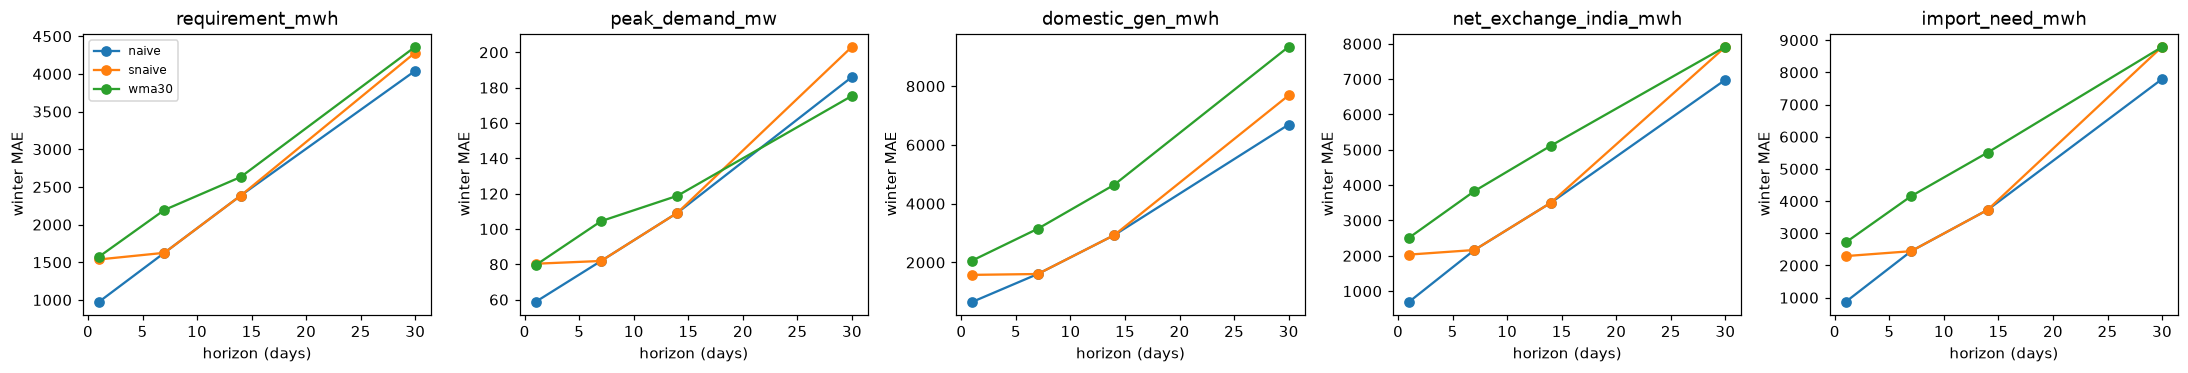
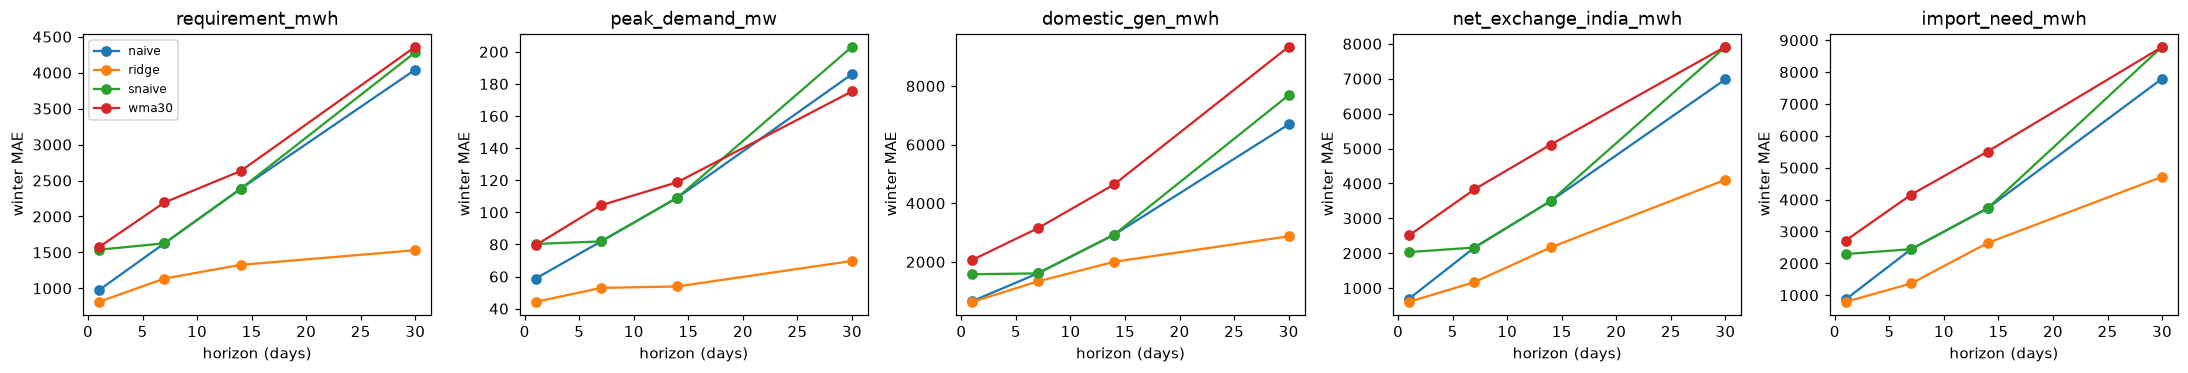
feat(model): ridge daily model and DM test

diff --git a/src/nea_forecast/model.py b/src/nea_forecast/model.py
@@ -110,6 +110,52 @@ def _baseline(key):
 
 
 BASELINES = {"naive": _baseline("y_t"), "snaive": _baseline("y_snaive"), "wma30": _baseline("y_wma30")}
+RIDGE_FEATS = ["y_t", "y_mean7", "y_snaive", *[f"dow_{i}" for i in range(1, 7)], "holiday", "hdd", "cdd",
+               "tmean_terai", "temp_anom_t", "temp_anom_7", "q_clim", "q_anom_t", "q_anom_7", "trend"]
+LAMBDAS = (0.1, 1.0, 10.0, 100.0)
+
+
+def fit_ridge(X: np.ndarray, y: np.ndarray, lam: float) -> tuple:
+    """Closed-form ridge on standardised X: lstsq on [X; sqrt(lam) I] -> [y; 0]."""
+    mu, sd = X.mean(0), X.std(0)
+    sd[sd == 0] = 1.0
+    A = np.vstack([(X - mu) / sd, math.sqrt(lam) * np.eye(X.shape[1])])
+    b = np.concatenate([y - y.mean(), np.zeros(X.shape[1])])
+    return mu, sd, np.linalg.lstsq(A, b, rcond=None)[0], y.mean()
+
+
+def predict_ridge(fit: tuple, X: np.ndarray) -> np.ndarray:
+    mu, sd, coef, y0 = fit
+    return (X - mu) / sd @ coef + y0
+
+
+def _xy(rows, feats):
+    return np.array([[x[k] for k in feats] for x, _ in rows]), np.array([yv - x["y_t"] for x, yv in rows])
+
+
+def ridge(train: list, test: list, feats: list[str] = RIDGE_FEATS) -> list[float]:
+    """Target = change from today (y_{t+h} - y_t): shrinkage pulls toward the naive forecast, the strong
+    baseline, not toward zero. Lambda picked on the last 60 training rows (time order), then refit on all."""
+    X, y = _xy(train, feats)
+    lam = 1.0
+    if len(train) >= 180:
+        v = 60
+        lam = min(LAMBDAS, key=lambda L: np.abs(predict_ridge(fit_ridge(X[:-v], y[:-v], L), X[-v:]) - y[-v:]).mean())
+    Xt = np.array([[x[k] for k in feats] for x in test])
+    return list(predict_ridge(fit_ridge(X, y, lam), Xt) + Xt[:, feats.index("y_t")])
+
+
+def dm_test(e1: list[float], e2: list[float], h: int) -> float:
+    """Diebold-Mariano, absolute-error loss, Newey-West variance with h-1 lags; two-sided normal p-value."""
+    d = np.abs(np.array(e1)) - np.abs(np.array(e2))
+    n = len(d)
+    if n < 3 or not d.any():
+        return 1.0
+    dc = d - d.mean()
+    var = (dc @ dc + 2 * sum((1 - k / h) * (dc[k:] @ dc[:-k]) for k in range(1, h))) / n / n
+    if var <= 0:
+        var = (dc @ dc) / n / n
+    return math.erfc(abs(d.mean() / math.sqrt(var)) / math.sqrt(2))
 
 
 # ---------- backtest ----------
@@ -155,8 +201,57 @@ def metrics(errors: dict, weather: str) -> list[dict]:
             mape = (100 * sum(abs(y - p) / abs(y) for _, _, y, p in sel if y) / len(sel)
                     if target in PCT_TARGETS else None)
             rows.append({"model": name, "target": target, "horizon": h, "season": season, "weather": weather,
-                         "mae": sum(abs(y - p) for _, _, y, p in sel) / len(sel), "mape": mape, "n": len(sel)})
+                         "mae": sum(abs(y - p) for _, _, y, p in sel) / len(sel), "mape": mape, "n": len(sel),
+                         "dm_p": None})
     return rows
+
+
+LADDER = ["ridge"]  # complexity order above the baselines; each is tested against the one below
+
+
+def attach_dm(rows: list[dict], errors: dict) -> None:
+    """dm_p on each ladder model's rows: Diebold-Mariano vs the next simpler model (the best baseline by
+    winter MAE for the first rung), paired by origin, per season."""
+    by = {(r["model"], r["target"], r["horizon"], r["season"]): r for r in rows}
+    for t, h in {(r["target"], r["horizon"]) for r in rows}:
+        prev = min((m for m in BASELINES if (m, t, h, "winter") in by), key=lambda m: by[(m, t, h, "winter")]["mae"])
+        for m in LADDER:
+            if (m, t, h) not in errors:
+                continue
+            for season in ("all", "winter"):
+                err = lambda k: {e[0]: e[2] - e[3] for e in errors[(k, t, h)]  # noqa: E731
+                                 if season == "all" or e[1].month in WINTER}
+                a, b = err(prev), err(m)
+                common = sorted(a.keys() & b.keys())
+                if (m, t, h, season) in by:
+                    by[(m, t, h, season)]["dm_p"] = dm_test([b[o] for o in common], [a[o] for o in common], h)
+                    by[(m, t, h, season)]["dm_vs"] = prev
+            prev = m
+
+
+MODELS = {"ridge": ridge}
+
+
+def sensitivity(c: dict) -> str:
+    """Ridge winter MAPE for demand under HDD/CDD thresholds +-3 degC: the fixed choice must not be tuned."""
+    lines = ["  hdd_base cdd_base | " + " | ".join(f"req h={h}" for h in HORIZONS)]
+    for hb, cb in ((12, 24), (15, 24), (18, 24), (15, 21), (15, 27)):
+        rows, _ = backtest({**c, "hdd_base": hb, "cdd_base": cb}, {"ridge": ridge}, ["requirement_mwh"], HORIZONS, "clim")
+        w = {r["horizon"]: r["mape"] for r in rows if r["season"] == "winter"}
+        lines.append(f"  {hb:8} {cb:8} | " + " | ".join(f"{w[h]:8.2f}%" for h in HORIZONS))
+    return "\n".join(lines)
+
+
+def stability(c: dict) -> str:
+    """Standardised ridge coefficients (h=1 demand) fitted on 2023 vs 2024 origins: same sign = stable."""
+    rows = _rows(c, "requirement_mwh", 1, "clim")
+    fits = {yr: fit_ridge(*_xy([(x, yv) for o, x, yv in rows if o.year == yr], RIDGE_FEATS), 1.0)[2]
+            for yr in (2023, 2024)}
+    lines = [f"  {'feature':12} {'2023':>8} {'2024':>8}  same sign"]
+    for i, k in enumerate(RIDGE_FEATS):
+        a, b = fits[2023][i], fits[2024][i]
+        lines.append(f"  {k:12} {a:8.0f} {b:8.0f}  {'yes' if a * b > 0 or abs(a) + abs(b) < 50 else 'NO'}")
+    return "\n".join(lines)
 
 
 def _save(fig, name: str) -> str:
@@ -198,15 +293,24 @@ def run_backtest(con) -> dict:
     print("▶ load: start", flush=True)
     c = load(con)
     print(f"✔ load: {len(c['frame'])} days, weather {len(c['wx'])} days in {time.time() - t:.1f}s", flush=True)
-    models, all_rows = dict(BASELINES), []
+    models, all_rows = {**BASELINES, **{m: MODELS[m] for m in LADDER}}, []
     for weather in ("clim", "actual"):
         t = time.time()
-        print(f"▶ backtest ({weather}): {len(models)} models x {len(TARGETS)} targets x {len(HORIZONS)} horizons", flush=True)
-        rows, _ = backtest(c, models, TARGETS, HORIZONS, weather)
+        print(f"▶ backtest ({weather}): {list(models)} x {len(TARGETS)} targets x {len(HORIZONS)} horizons", flush=True)
+        rows, errors = backtest(c, models, TARGETS, HORIZONS, weather)
+        attach_dm(rows, errors)
         all_rows += rows
         print(f"✔ backtest ({weather}) in {time.time() - t:.0f}s; winter MAE (MAPE):\n{_table(rows)}", flush=True)
-    upsert(con, "ml.backtest_metrics", [{"run_id": run_id, "coverage": None, "pinball": None, "dm_p": None,
-                                         "created_at": now, **r} for r in all_rows],
+        print("  Diebold-Mariano (winter), ladder model vs next simpler:\n" + "\n".join(
+            f"  {r['target']:24} h={r['horizon']:<2} {r['model']} vs {r['dm_vs']}: p={r['dm_p']:.3f}"
+            for r in sorted(rows, key=lambda r: (r["target"], r["horizon"]))
+            if r["season"] == "winter" and r.get("dm_vs")), flush=True)
+    for fn in (sensitivity, stability):
+        t = time.time()
+        print(f"▶ {fn.__name__}: start", flush=True)
+        print(f"✔ {fn.__name__} in {time.time() - t:.0f}s:\n{fn(c)}", flush=True)
+    upsert(con, "ml.backtest_metrics", [{"run_id": run_id, "coverage": None, "pinball": None, "created_at": now,
+                                         **{k: v for k, v in r.items() if k != "dm_vs"}} for r in all_rows],
            ("run_id", "model", "target", "horizon", "season", "weather"))
     print(f"✔ saved {len(all_rows)} metric rows as {run_id}; chart {chart_daily(all_rows)}", flush=True)
     return {"run_id": run_id, "rows": all_rows}

diff --git a/tests/test_model.py b/tests/test_model.py
@@ -57,3 +57,19 @@ def test_backtest_weekly_series_snaive_mae_zero():
     metrics, errors = model.backtest(c, {"snaive": model.BASELINES["snaive"]}, [T], [1, 7], "clim", date(2024, 3, 1))
     assert {(m["horizon"], m["season"]): m["mae"] for m in metrics if m["model"] == "snaive"}[(7, "all")] == 0
     assert all(m["mape"] is not None for m in metrics)
+
+
+def test_fit_ridge_recovers_coefficients():
+    import numpy as np
+    rng = np.random.default_rng(0)
+    X = rng.normal(size=(200, 2))
+    y = 3 * X[:, 0] - 2 * X[:, 1] + 5
+    fit = model.fit_ridge(X, y, 1e-6)
+    assert model.predict_ridge(fit, np.array([[1.0, 1.0], [0.0, 0.0]])) == pytest.approx([6.0, 5.0], rel=0.01)
+
+
+def test_dm_test():
+    import numpy as np
+    e = list(np.random.default_rng(1).normal(size=200))
+    assert model.dm_test(e, e, 1) == 1.0
+    assert model.dm_test(e, [2 * x for x in e], 7) < 0.01

diff --git a/docs/models/ridge.md b/docs/models/ridge.md
@@ -4,9 +4,11 @@
 
 ## How it works
 
-One model per horizon $h$ (a "direct" forecast). Each is trained on rows $(x(t,h),\, y_{t+h})$ by minimising
+One model per horizon $h$ (a "direct" forecast). The target is the **change from today**, $\Delta = y_{t+h} - y_t$, and the forecast is $\hat y_{t+h} = y_t + \hat\Delta$. Each model minimises
 
-$$\sum_t \big(y_{t+h} - \beta_0 - \beta^\top x(t,h)\big)^2 + \lambda \lVert\beta\rVert^2$$
+$$\sum_t \big(\Delta_t - \beta_0 - \beta^\top x(t,h)\big)^2 + \lambda \lVert\beta\rVert^2$$
+
+Why the change and not the level: ridge shrinks $\beta$ toward 0, which then means "tomorrow = today", the strongest baseline. With a level target, it would shrink toward the mean instead.
 
 with standardised features. $\lambda \in \{0.1, 1, 10, 100\}$ is picked on the last 60 days of each training window (time-ordered, never random). It is solved in closed form with numpy (`lstsq` on the augmented system), so there's no iterative training and the same data always gives the same model.
 
@@ -46,4 +48,36 @@ HDD/CDD thresholds (15 °C, 24 °C) are fixed up front. Task 2 reports a ±3 °C
 
 ## Results
 
-_Filled by `nea model` (Phase 3, Task 2): winter and overall MAE/MAPE per horizon, ex-ante vs ex-post, coefficient table, stability check._
+Run `bt-20261026-082239`. Winter origins Nov 2024 → Jan 2025. MAE (MAPE); DM p = Diebold–Mariano vs the best baseline.
+
+| Target | h=1 | h=7 | h=14 | h=30 |
+|---|---|---|---|---|
+| requirement MWh | 812 (2.5%) p=0.08 | 1,136 (3.5%) p=0.09 | 1,327 (4.1%) p=0.005 | 1,531 (4.9%) p<0.001 |
+| *best baseline* | *974 (3.0%)* | *1,626 (5.1%)* | *2,385 (7.5%)* | *4,042 (12.5%)* |
+| peak MW | 44 (2.4%) p=0.001 | 53 (3.0%) p=0.009 | 54 (3.1%) p<0.001 | 70 (4.0%) p=0.008 |
+| *best baseline* | *59 (3.3%)* | *82 (4.6%)* | *109 (6.2%)* | *175 (9.6%)* |
+| domestic gen MWh | 634 (1.9%) p=0.71 | 1,331 (4.0%) p=0.32 | 2,003 (6.2%) p=0.29 | 2,871 (8.8%) p<0.001 |
+| net exchange MWh | 607 p=0.21 | 1,174 p=0.01 | 2,169 p=0.21 | 4,104 p=0.15 |
+| import need MWh | 791 p=0.27 | 1,369 p=0.02 | 2,638 p=0.35 | 4,716 p=0.16 |
+
+**Reading it:**
+- Demand and peak beat the baselines at every horizon, and the result is significant. Next-day peak at 2.4% is below the Nepal LSTM reference (2.95%) [lit 3].
+- Generation and import are better on average, but the difference is often not significant: one winter is a small sample.
+
+**Ex-ante vs ex-post (actual weather):**
+- Demand: h=30 is 4.9% ex-ante vs 5.6% ex-post. Actual weather does **not** help. The weather terms mostly carry the seasonal shape, so a daily weather-forecast feed would add little.
+- Generation: h=30 is 8.8% ex-ante vs **5.4%** ex-post. Actual river flow helps a lot, so a river-flow forecast (GloFAS forecast via Open-Meteo) is the input worth adding for import planning.
+
+**Threshold sensitivity** (winter demand MAPE):
+
+| HDD base | CDD base | h=1 | h=7 | h=14 | h=30 |
+|---|---|---|---|---|---|
+| 12 | 24 | 2.49% | 4.08% | 4.46% | 7.20% |
+| **15** | **24** | **2.46%** | **3.52%** | **4.11%** | **4.87%** |
+| 18 | 24 | 2.50% | 3.92% | 4.90% | 7.05% |
+| 15 | 21 | 2.42% | 4.04% | 4.82% | 6.72% |
+| 15 | 27 | 2.44% | 3.94% | 4.66% | 7.64% |
+
+The thresholds were fixed before testing, and they turned out best. Still, h=30 moves between 4.9% and 7.6% with ±3 °C, so the exact 30-day figure is **fragile** on one winter; quote it as "5–8%". Every setting still beats the best baseline (12.5%) by a wide margin, so the conclusion holds.
+
+**Coefficient stability** (standardised, h=1 demand, fit on 2023 vs 2024): all 19 coefficients have the same sign in both years. For example, Saturday −951/−1,082, holiday −435/−409, CDD 1,052/986, HDD 187/328. The relationships held through 12%/yr growth.

diff --git a/docs/developer/decisions.md b/docs/developer/decisions.md
@@ -86,3 +86,4 @@ Architecture decisions (ADR) + change log. Every repo change appends a change-lo
 - **2026-10-26** — Phase 3 plan written (`2026-10-26-phase3-models.md`): direct per-horizon daily models (baselines → numpy ridge → LightGBM only if >5% better), climatology for future weather/discharge (no leakage), widget→NDOR mapping verified, monthly winter outlook, live `nea forecast`. statsforecast dropped (numba weight).
 - **2026-10-26** — Literature review (`docs/models/literature.md`, 37 sources, verification flags) + per-model docs (`docs/models/`: README approach/defence, baselines, ridge, lightgbm, import-need, monthly-outlook, intervals). Phase 3 plan revised to close review gaps: HDD/CDD + recency features, ex-ante (climatology) and ex-post (actual weather) results, WMA30 baseline (Nepal thesis reference), Diebold–Mariano in selection, ETS + combination monthly, conformal P10/P90, import need = requirement − generation (includes unserved load), LightGBM on relative change (trees can't extrapolate growth).
 - **2026-10-26** — Phase 3 Task 1: `model.py` (load: NDOR + widget by date, climatology 2010–2022; features at origin only; baselines naive/snaive/wma30; rolling-origin backtest, refit every 7 origins; ex-ante + ex-post), `ml` schema, `nea model`. Baseline winter results in docs/models/baselines.md.
+- **2026-10-26** — Phase 3 Task 2: ridge (target = change from today; λ on last 60 training rows), Diebold–Mariano (Newey–West), threshold sensitivity, 2023-vs-2024 coefficient stability. Demand/peak beat baselines significantly at all horizons; ex-post weather doesn't help demand but actual discharge cuts generation h=30 error 8.8→5.4% → GloFAS forecast worth adding. h=30 demand sensitive to HDD/CDD base (4.9–7.6%).
